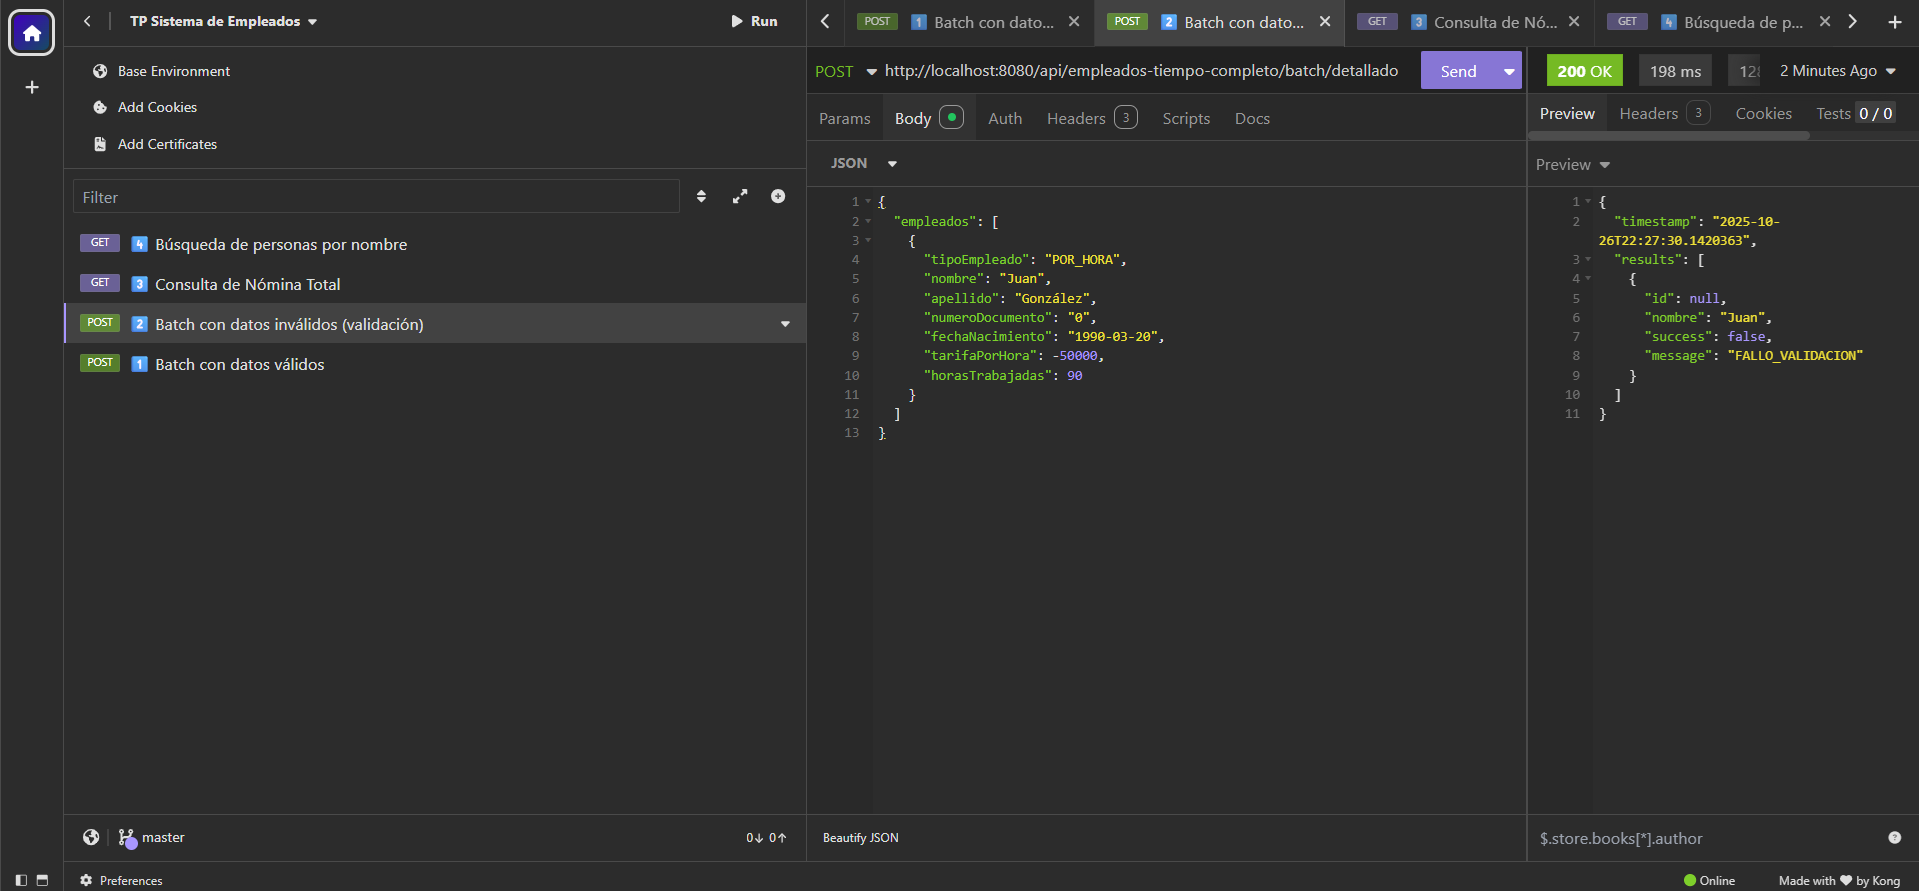
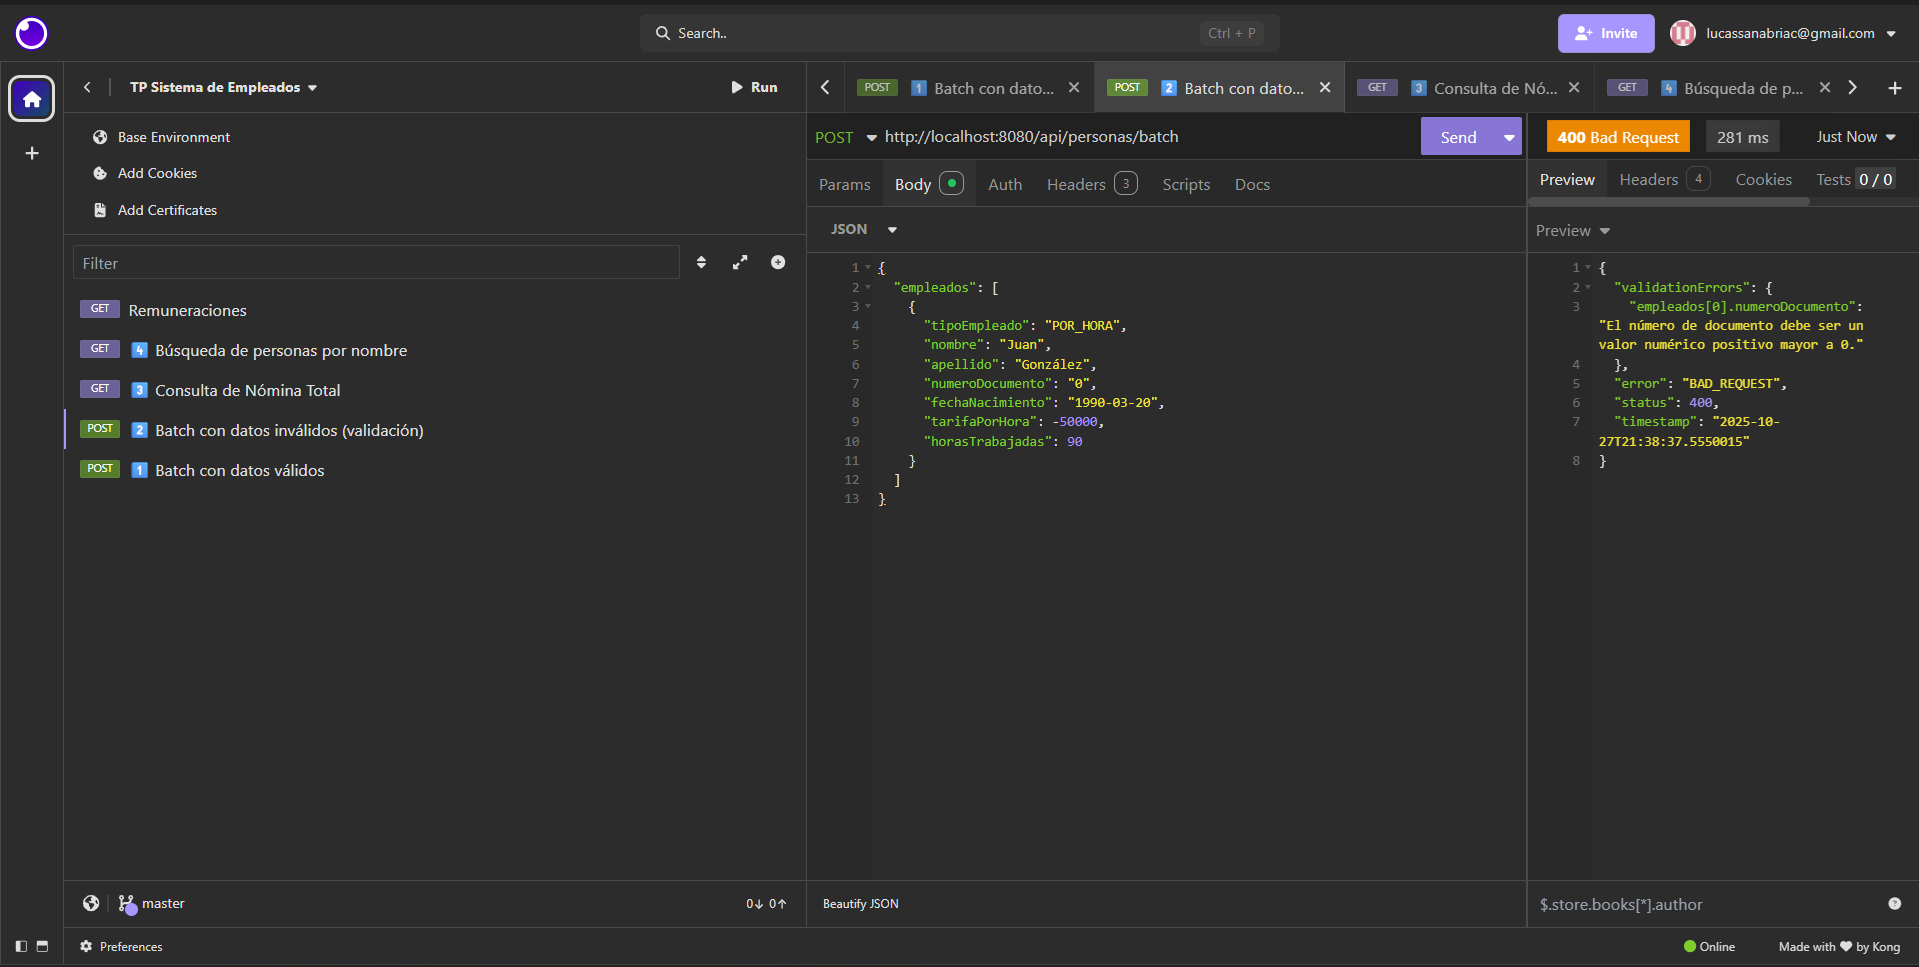
Arreglar caso de batch_error

diff --git a/lp32025/src/main/java/py/edu/uc/lp32025/exception/handler/GlobalExceptionHandler.java b/lp32025/src/main/java/py/edu/uc/lp32025/exception/handler/GlobalExceptionHandler.java
@@ -2,62 +2,57 @@ package py.edu.uc.lp32025.exception.handler;
 
 import org.springframework.http.HttpStatus;
 import org.springframework.http.ResponseEntity;
+import org.springframework.validation.FieldError;
+import org.springframework.web.bind.MethodArgumentNotValidException;
+import org.springframework.web.bind.annotation.ControllerAdvice;
 import org.springframework.web.bind.annotation.ExceptionHandler;
-import org.springframework.web.bind.annotation.RestControllerAdvice;
-import py.edu.uc.lp32025.dto.BaseResponseDto;
-import py.edu.uc.lp32025.exception.BusinessException;
-import py.edu.uc.lp32025.exception.NotFoundException;
 
 import java.time.LocalDateTime;
+import java.util.HashMap;
+import java.util.Map;
 
-/**
- * Manejo global de excepciones para toda la aplicación.
- * Convierte excepciones en respuestas JSON con BaseResponseDto.
- */
-@RestControllerAdvice
+@ControllerAdvice
 public class GlobalExceptionHandler {
 
-    @ExceptionHandler(BusinessException.class)
-    public ResponseEntity<BaseResponseDto> handleBusinessException(BusinessException ex) {
-        BaseResponseDto response = new BaseResponseDto(
-                HttpStatus.BAD_REQUEST.value(),
-                ex.getCode(),
-                ex.getMessage()
-        );
-        response.setTimestamp(LocalDateTime.now());
-        return ResponseEntity.badRequest().body(response);
+    // Captura errores de Bean Validation (@Valid)
+    @ExceptionHandler(MethodArgumentNotValidException.class)
+    public ResponseEntity<Object> handleValidationErrors(MethodArgumentNotValidException ex) {
+        Map<String, Object> body = new HashMap<>();
+        Map<String, String> fieldErrors = new HashMap<>();
+
+        ex.getBindingResult().getAllErrors().forEach(error -> {
+            String fieldName = ((FieldError) error).getField();
+            String message = error.getDefaultMessage();
+            fieldErrors.put(fieldName, message);
+        });
+
+        body.put("status", 400);
+        body.put("error", "BAD_REQUEST");
+        body.put("timestamp", LocalDateTime.now());
+        body.put("validationErrors", fieldErrors);
+
+        return ResponseEntity.status(HttpStatus.BAD_REQUEST).body(body);
     }
 
-    @ExceptionHandler(NotFoundException.class)
-    public ResponseEntity<BaseResponseDto> handleNotFoundException(NotFoundException ex) {
-        BaseResponseDto response = new BaseResponseDto(
-                HttpStatus.NOT_FOUND.value(),
-                ex.getCode(),
-                ex.getMessage()
-        );
-        response.setTimestamp(LocalDateTime.now());
-        return ResponseEntity.status(HttpStatus.NOT_FOUND).body(response);
-    }
-
+    // Captura errores de negocio (throw new IllegalArgumentException)
     @ExceptionHandler(IllegalArgumentException.class)
-    public ResponseEntity<BaseResponseDto> handleIllegalArgument(IllegalArgumentException ex) {
-        BaseResponseDto response = new BaseResponseDto(
-                HttpStatus.BAD_REQUEST.value(),
-                "INVALID_ARGUMENT",
-                ex.getMessage()
-        );
-        response.setTimestamp(LocalDateTime.now());
-        return ResponseEntity.badRequest().body(response);
+    public ResponseEntity<Object> handleIllegalArgument(IllegalArgumentException ex) {
+        Map<String, Object> body = new HashMap<>();
+        body.put("status", 400);
+        body.put("error", "BAD_REQUEST");
+        body.put("message", ex.getMessage());
+        body.put("timestamp", LocalDateTime.now());
+        return ResponseEntity.status(HttpStatus.BAD_REQUEST).body(body);
     }
 
+    // Captura genérica
     @ExceptionHandler(Exception.class)
-    public ResponseEntity<BaseResponseDto> handleGeneralException(Exception ex) {
-        BaseResponseDto response = new BaseResponseDto(
-                HttpStatus.INTERNAL_SERVER_ERROR.value(),
-                "INTERNAL_ERROR",
-                "Ocurrió un error inesperado: " + ex.getMessage()
-        );
-        response.setTimestamp(LocalDateTime.now());
-        return ResponseEntity.internalServerError().body(response);
+    public ResponseEntity<Object> handleGeneralException(Exception ex) {
+        Map<String, Object> body = new HashMap<>();
+        body.put("status", 500);
+        body.put("error", "INTERNAL_SERVER_ERROR");
+        body.put("message", ex.getMessage());
+        body.put("timestamp", LocalDateTime.now());
+        return ResponseEntity.status(HttpStatus.INTERNAL_SERVER_ERROR).body(body);
     }
 }

diff --git a/lp32025/src/main/java/py/edu/uc/lp32025/controller/PersonaController.java b/lp32025/src/main/java/py/edu/uc/lp32025/controller/PersonaController.java
@@ -1,11 +1,11 @@
 package py.edu.uc.lp32025.controller;
 
+import jakarta.validation.Valid;
 import org.springframework.beans.factory.annotation.Autowired;
 import org.springframework.http.ResponseEntity;
 import org.springframework.web.bind.annotation.*;
 import py.edu.uc.lp32025.domain.Persona;
 import py.edu.uc.lp32025.dto.BatchEmpleadosRequest;
-import py.edu.uc.lp32025.exception.BusinessException;
 import py.edu.uc.lp32025.exception.NotFoundException;
 import py.edu.uc.lp32025.service.PersonaService;
 import py.edu.uc.lp32025.service.EmpleadoTiempoCompletoService;
@@ -19,7 +19,6 @@ public class PersonaController {
     @Autowired
     private PersonaService personaService;
 
-    // Servicio con la lógica batch
     @Autowired
     private EmpleadoTiempoCompletoService empleadoService;
 
@@ -55,19 +54,19 @@ public class PersonaController {
     }
 
     // =================================================================
-    // 4⃣ Crear nueva persona
+    // 4⃣ Crear nueva persona (validada)
     // =================================================================
     @PostMapping
-    public ResponseEntity<Persona> createPersona(@RequestBody Persona persona) {
+    public ResponseEntity<Persona> createPersona(@Valid @RequestBody Persona persona) {
         Persona createdPersona = personaService.savePersona(persona);
         return ResponseEntity.status(201).body(createdPersona);
     }
 
     // =================================================================
-    // 5⃣ Actualizar persona existente
+    // 5⃣ Actualizar persona existente (validada)
     // =================================================================
     @PutMapping("/{id}")
-    public ResponseEntity<Persona> updatePersona(@PathVariable Long id, @RequestBody Persona personaDetails) {
+    public ResponseEntity<Persona> updatePersona(@PathVariable Long id, @Valid @RequestBody Persona personaDetails) {
         Persona updatedPersona = personaService.updatePersona(id, personaDetails);
         return ResponseEntity.ok(updatedPersona);
     }
@@ -85,18 +84,11 @@ public class PersonaController {
     }
 
     // =================================================================
-    // 7⃣ Nuevo endpoint: Persistencia polimórfica en batch
+    // 7⃣ Nuevo endpoint: Persistencia polimórfica en batch (validada)
     // =================================================================
     @PostMapping("/batch")
-    public ResponseEntity<?> guardarEmpleadosEnBatch(@RequestBody BatchEmpleadosRequest request) {
-        try {
-            var empleadosGuardados = empleadoService.guardarEmpleadosEnBatch(request.getEmpleados());
-            return ResponseEntity.status(201).body(empleadosGuardados);
-        } catch (IllegalArgumentException e) {
-            return ResponseEntity.badRequest().body(e.getMessage());
-        } catch (Exception e) {
-            return ResponseEntity.internalServerError()
-                    .body("Error al guardar empleados en batch: " + e.getMessage());
-        }
+    public ResponseEntity<?> guardarEmpleadosEnBatch(@Valid @RequestBody BatchEmpleadosRequest request) {
+        var empleadosGuardados = empleadoService.guardarEmpleadosEnBatch(request.getEmpleados());
+        return ResponseEntity.status(201).body(empleadosGuardados);
     }
 }

diff --git a/lp32025/src/main/java/py/edu/uc/lp32025/service/EmpleadoTiempoCompletoService.java b/lp32025/src/main/java/py/edu/uc/lp32025/service/EmpleadoTiempoCompletoService.java
@@ -7,7 +7,7 @@ import py.edu.uc.lp32025.domain.EmpleadoTiempoCompleto;
 import py.edu.uc.lp32025.domain.Persona;
 import py.edu.uc.lp32025.repository.EmpleadoTiempoCompletoRepository;
 import py.edu.uc.lp32025.repository.PersonaRepository;
-import py.edu.uc.lp32025.dto.EmpleadoTiempoCompletoImpuestoDTO;
+import py.edu.uc.lp32025.dto.EmpleadoTiempoCompletoImpuestoDto;
 
 import java.math.BigDecimal;
 import java.util.ArrayList;
@@ -67,7 +67,7 @@ public class EmpleadoTiempoCompletoService {
     }
 
     // Cálculo de Impuestos
-    public Optional<EmpleadoTiempoCompletoImpuestoDTO> calcularImpuestosDetalle(Long id) {
+    public Optional<EmpleadoTiempoCompletoImpuestoDto> calcularImpuestosDetalle(Long id) {
         log.info("Iniciando cálculo de impuestos para ID: {}", id);
         return empleadoRepository.findById(id).map(empleado -> {
 
@@ -85,7 +85,7 @@ public class EmpleadoTiempoCompletoService {
             boolean datosValidos = empleado.validarDatosEspecificos();
             String informacionCompleta = empleado.obtenerInformacionCompleta();
 
-            return new EmpleadoTiempoCompletoImpuestoDTO(
+            return new EmpleadoTiempoCompletoImpuestoDto(
                     empleado.getId(), salarioNeto, impuestoBase, deducciones,
                     impuestoTotal, datosValidos, informacionCompleta
             );

diff --git a/lp32025/src/main/java/py/edu/uc/lp32025/controller/EmpleadoTiempoCompletoController.java b/lp32025/src/main/java/py/edu/uc/lp32025/controller/EmpleadoTiempoCompletoController.java
@@ -6,7 +6,7 @@ import org.springframework.web.bind.annotation.*;
 import py.edu.uc.lp32025.domain.EmpleadoTiempoCompleto;
 import py.edu.uc.lp32025.domain.Persona; // <-- Importar la clase base Persona para el batch
 import py.edu.uc.lp32025.service.EmpleadoTiempoCompletoService;
-import py.edu.uc.lp32025.dto.EmpleadoTiempoCompletoImpuestoDTO;
+import py.edu.uc.lp32025.dto.EmpleadoTiempoCompletoImpuestoDto;
 import py.edu.uc.lp32025.dto.BatchEmpleadosRequest;
 import py.edu.uc.lp32025.dto.BatchResponseDto;
 import jakarta.validation.Valid; // Asegúrate de importar esto
@@ -85,7 +85,7 @@ public class EmpleadoTiempoCompletoController {
      * GET /api/empleados-tiempo-completo/{id}/impuesto
      */
     @GetMapping("/{id}/impuesto")
-    public ResponseEntity<EmpleadoTiempoCompletoImpuestoDTO> getImpuestoDetalle(@PathVariable Long id) {
+    public ResponseEntity<EmpleadoTiempoCompletoImpuestoDto> getImpuestoDetalle(@PathVariable Long id) {
         return empleadoService.calcularImpuestosDetalle(id)
                 .map(ResponseEntity::ok)
                 .orElseGet(() -> ResponseEntity.notFound().build());

diff --git a/lp32025/src/main/java/py/edu/uc/lp32025/dto/EmpleadoTiempoCompletoImpuestoDto.java b/lp32025/src/main/java/py/edu/uc/lp32025/dto/EmpleadoTiempoCompletoImpuestoDto.java
@@ -2,7 +2,7 @@ package py.edu.uc.lp32025.dto;
 
 import java.math.BigDecimal;
 
-public class EmpleadoTiempoCompletoImpuestoDTO {
+public class EmpleadoTiempoCompletoImpuestoDto {
 
     private Long empleadoId;
     private BigDecimal salarioNeto;
@@ -13,7 +13,7 @@ public class EmpleadoTiempoCompletoImpuestoDTO {
     private String informacionCompleta; // <-- CAMPO AÑADIDO
 
     // Constructor corregido
-    public EmpleadoTiempoCompletoImpuestoDTO(
+    public EmpleadoTiempoCompletoImpuestoDto(
             Long empleadoId,
             BigDecimal salarioNeto,
             BigDecimal impuestoBase,

diff --git a/lp32025/src/main/java/py/edu/uc/lp32025/dto/BatchEmpleadosRequest.java b/lp32025/src/main/java/py/edu/uc/lp32025/dto/BatchEmpleadosRequest.java
@@ -8,7 +8,7 @@ import java.util.List;
 public class BatchEmpleadosRequest {
 
     @NotEmpty(message = "La lista de empleados no puede estar vacía.")
-    @Valid
+    @Valid // 🔹 Habilita validación sobre cada Persona en la lista
     private List<Persona> empleados;
 
     public BatchEmpleadosRequest() {}
